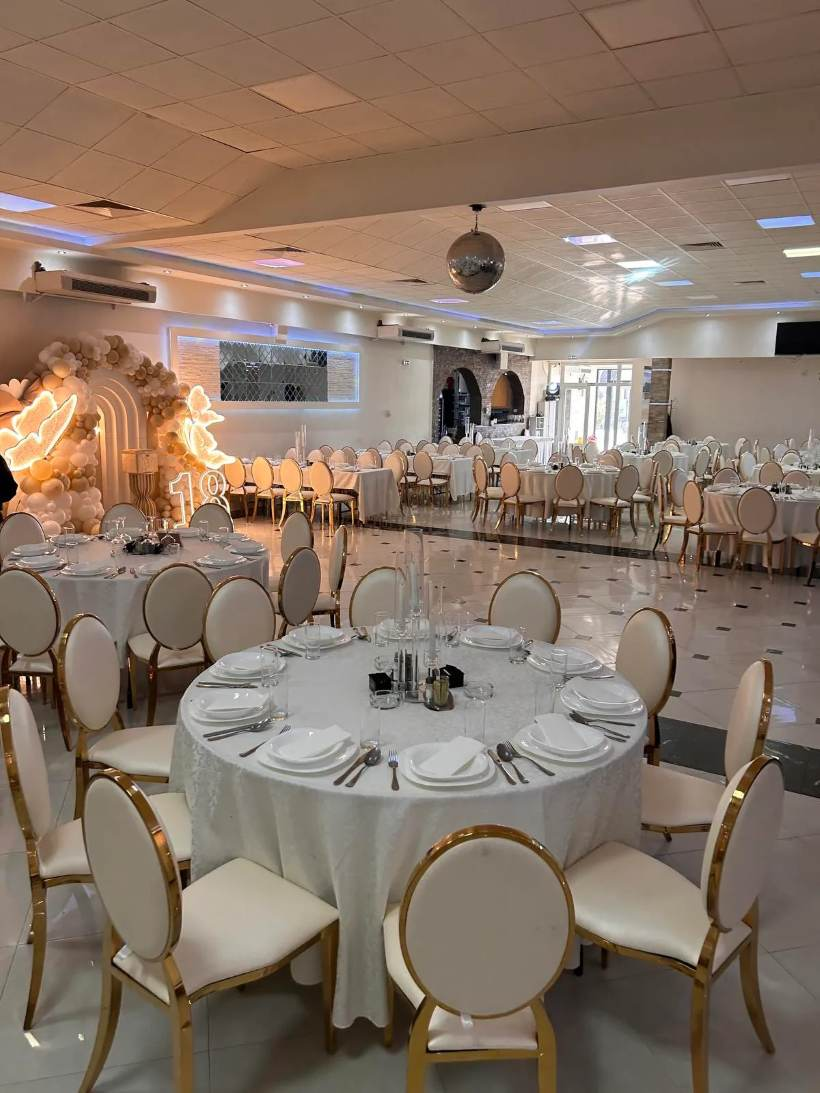
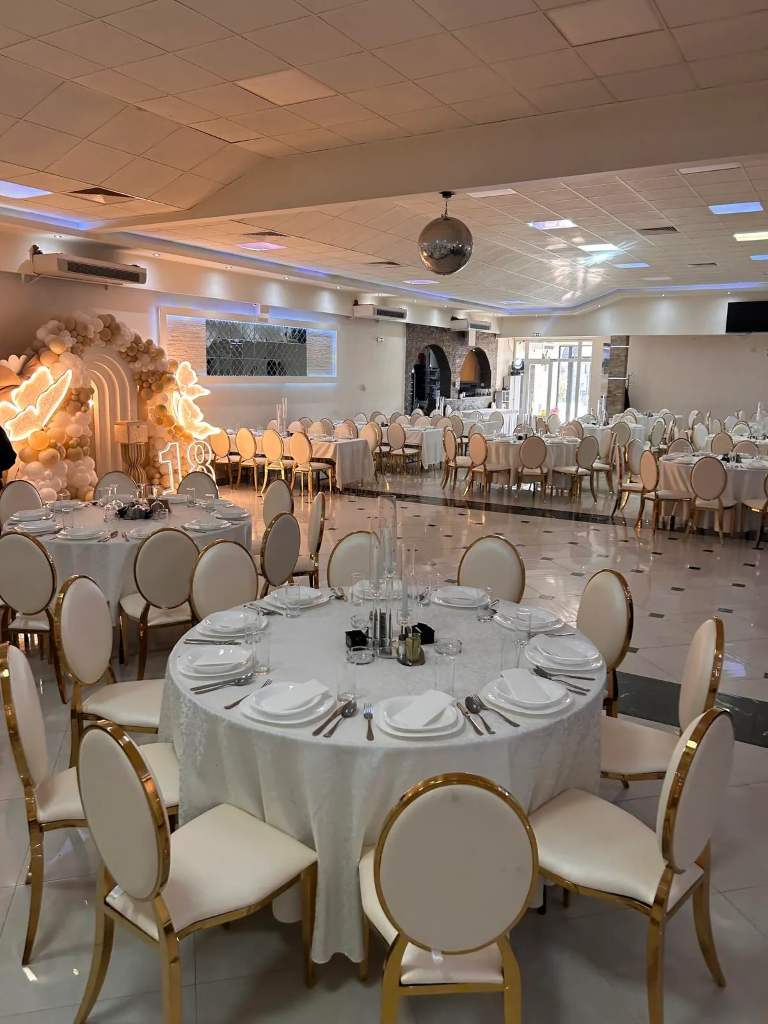
izmene 2

diff --git a/src/main.tsx b/src/main.tsx
@@ -1,4 +1,6 @@
 import { createRoot } from "react-dom/client";
+import "@fontsource-variable/inter/wght.css";
+import "@fontsource-variable/cormorant-garamond/wght.css";
 import App from "./App.tsx";
 import heroImg from "@/assets/hero-venue.webp";
 import heroImgMobile from "@/assets/responsive/hero-venue-mobile.jpg";
@@ -13,7 +15,7 @@ const preloadHeroImage = () => {
   link.as = "image";
   link.href = heroImg;
   link.setAttribute("fetchpriority", "high");
-  link.setAttribute("imagesrcset", `${heroImgMobile} 820w, ${heroImg} 1200w`);
+  link.setAttribute("imagesrcset", `${heroImgMobile} 768w, ${heroImg} 1200w`);
   link.setAttribute("imagesizes", "100vw");
   link.setAttribute("data-critical-image", "home-hero");
   document.head.appendChild(link);

diff --git a/src/index.css b/src/index.css
@@ -63,7 +63,7 @@
   }
   body {
     @apply bg-background text-foreground antialiased;
-    font-family: 'Inter', system-ui, sans-serif;
+    font-family: 'Inter Variable', 'Inter', system-ui, sans-serif;
     background-image:
       radial-gradient(ellipse 80% 50% at 50% -20%, hsl(290 70% 30% / 0.25), transparent),
       radial-gradient(ellipse 60% 50% at 100% 100%, hsl(340 70% 35% / 0.15), transparent);
@@ -73,7 +73,7 @@
     display: block;
   }
   h1, h2, h3, h4 {
-    font-family: 'Cormorant Garamond', serif;
+    font-family: 'Cormorant Garamond Variable', 'Cormorant Garamond', serif;
     font-weight: 500;
     letter-spacing: -0.01em;
   }

diff --git a/index.html b/index.html
@@ -42,12 +42,6 @@
     <meta name="twitter:image:alt" content="Sve&#269;ana sala Borovi&#263; u Bogati&#263;u - sala za svadbe i proslave" />
 
     <link rel="canonical" href="https://salaborovic.rs/" />
-    <link rel="preconnect" href="https://fonts.googleapis.com" />
-    <link rel="preconnect" href="https://fonts.gstatic.com" crossorigin />
-    <link
-      rel="stylesheet"
-      href="https://fonts.googleapis.com/css2?family=Cormorant+Garamond:wght@300;400;500;600;700&family=Inter:wght@300;400;500;600;700&display=swap"
-    />
   </head>
   <body>
     <div id="root"></div>

diff --git a/src/components/site/Navbar.tsx b/src/components/site/Navbar.tsx
@@ -2,7 +2,7 @@ import { useEffect, useState } from "react";
 import { Menu, Phone, X } from "lucide-react";
 import { Button } from "@/components/ui/button";
 import { Link, NavLink, useLocation } from "react-router-dom";
-import logo from "@/assets/logo.png";
+import logo from "@/assets/responsive/logo-navbar.png";
 import { PRIMARY_PHONE_HREF } from "@/lib/contact";
 
 const links = [

diff --git a/src/components/site/Hero.tsx b/src/components/site/Hero.tsx
@@ -53,7 +53,7 @@ export const Hero = () => {
       >
         <img
           src={heroImg}
-          srcSet={`${heroImgMobile} 820w, ${heroImg} 1200w`}
+          srcSet={`${heroImgMobile} 768w, ${heroImg} 1200w`}
           alt="Svečana sala Borović Bogatić - elegantan ambijent"
           className="absolute inset-0 h-full w-full object-cover"
           fetchPriority="high"
